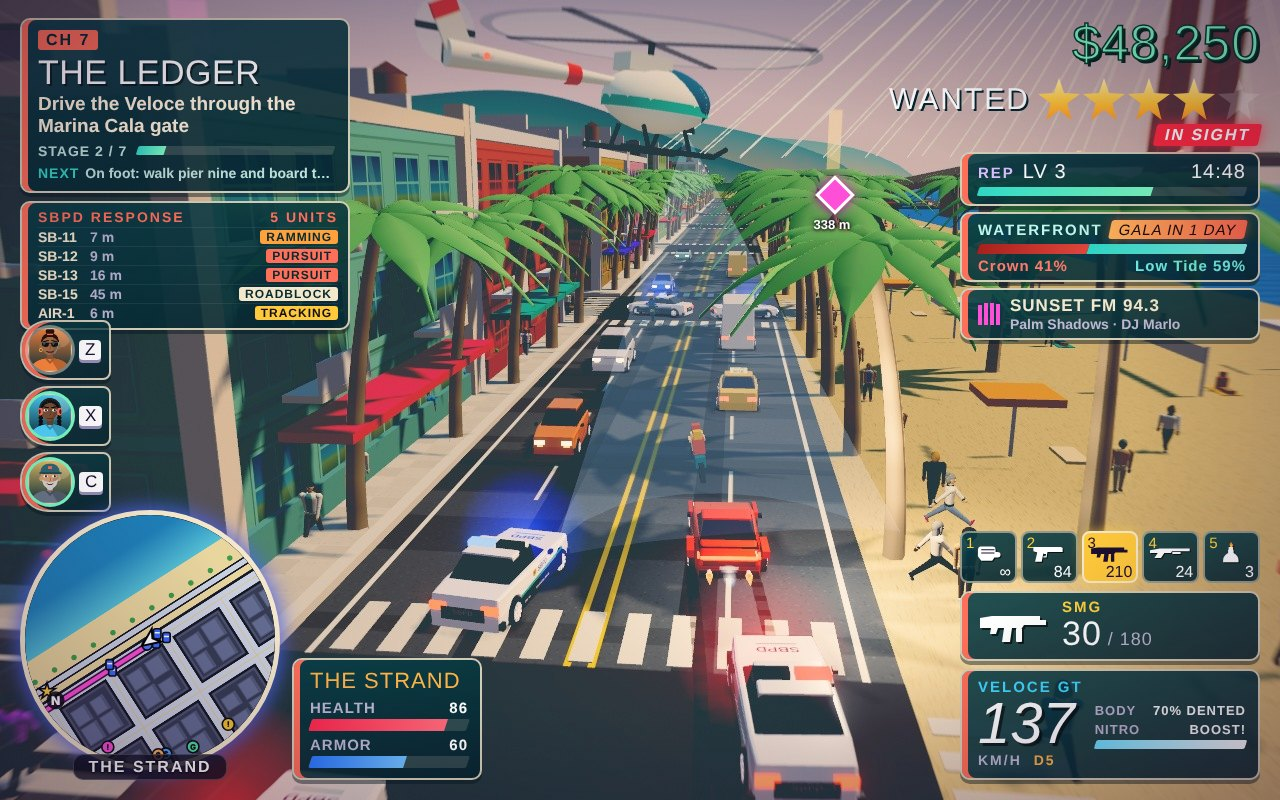
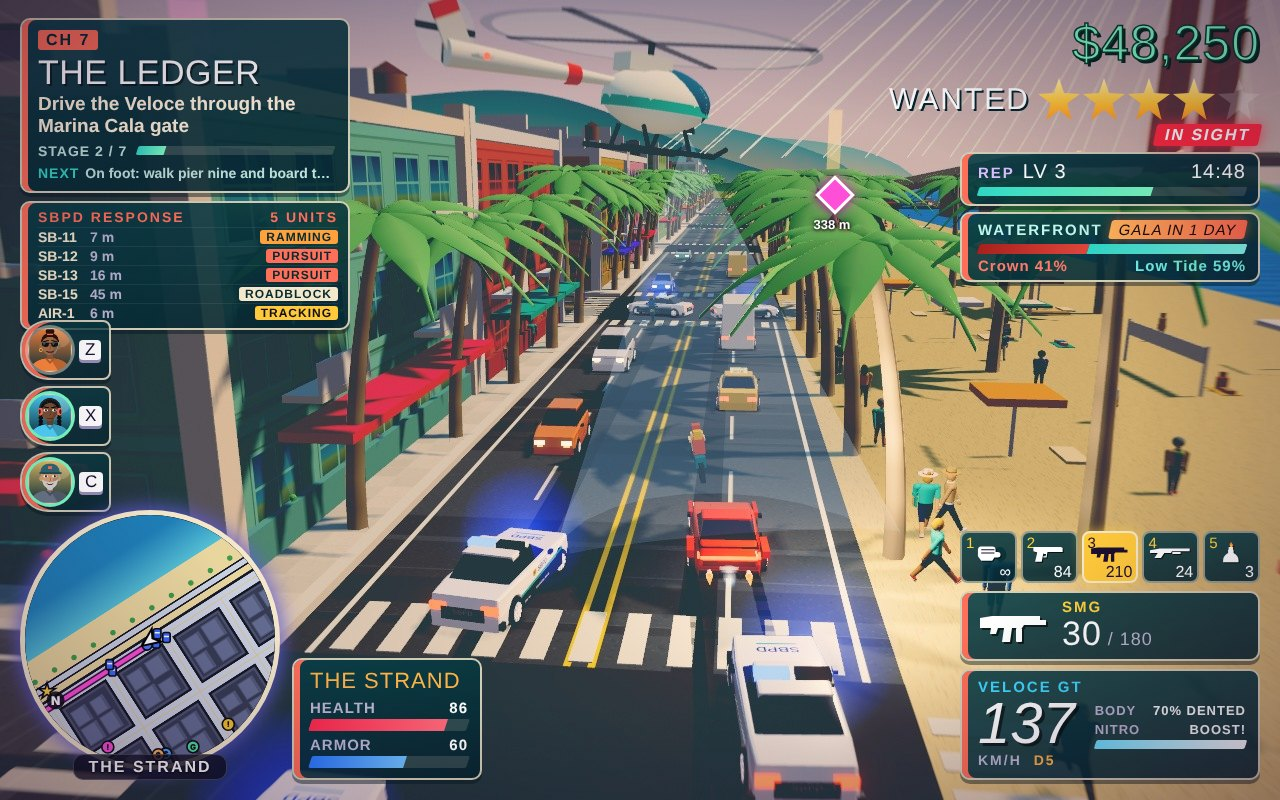
Pedestrian variety: shorts, dresses, sun hats, caps, sunglasses, backpacks and totes, a range of heights; staged shots keep the radio card hidden; screenshots re-rendered
Claude-Session: https://claude.ai/code/session_01KYFnKsdg5D9jxoFvsNJNKP

diff --git a/game/src/characters/characterModel.js b/game/src/characters/characterModel.js
@@ -15,10 +15,14 @@ export const STYLES = {
 const SHIRTS = [0xf2c230, 0xe8613c, 0x4aa3df, 0x7bc67b, 0xf4f0e6, 0xb06ad8, 0xff8fa8, 0x40c8c0], PANTS = [0x3b4a6b, 0x6b5a45, 0xd9d0b8, 0x2a2a30, 0x8a9bb0];
 const SKINS = [0xf0c8a0, 0xd9a577, 0xb07a52, 0x7a5236, 0xe8b890, 0x5c3a24], HAIRS = [0x111111, 0x3a2414, 0xc9a050, 0x7a2a1a, 0x9a9a9a];
 const JACKETS = [null, null, null, 0xf4f0e6, 0x2f6fb0, 0xd8b48a, 0x2a2a30], SHOES = [0xf2f2f2, 0x111111, 0xd94a3a, 0x6b4a2a];
+const HATS = [0xf2e2b0, 0xd8c08a, 0xf4f0e6, 0x2f6fb0], CAPS = [0xe8613c, 0x2fb8a8, 0x222831, 0xf2c230], BAGS = [0x6b4a2a, 0x2a2a30, 0xe8613c, 0x2fb8a8, 0xf4f0e6];
+// A beach-city passer-by: outfit colours plus the odd sun hat or cap, sunglasses, shorts or a dress, a backpack or tote, and a height.
 export const randomStyle = (rng) => {
-  const jacket = rng.pick(JACKETS);
+  const jacket = rng.pick(JACKETS), dress = !jacket && rng() < 0.16, head = rng();
   return { shirt: rng.pick(SHIRTS), pants: rng.pick(PANTS), skin: rng.pick(SKINS), hair: rng.pick(HAIRS), hairStyle: rng.pick(['short', 'long', 'bun', 'buzz', 'afro', 'short']),
-    jacket, trim: jacket ? rng.pick([0x222222, 0xf4f0e6]) : null, sleeves: jacket ? 'long' : rng.pick(['short', 'short', 'long']), shoes: rng.pick(SHOES) };
+    jacket, trim: jacket ? rng.pick([0x222222, 0xf4f0e6]) : null, sleeves: jacket ? 'long' : rng.pick(['short', 'short', 'long']), shoes: rng.pick(SHOES),
+    shorts: !jacket && !dress && rng() < 0.4, dress: dress ? rng.pick(SHIRTS) : null, sunhat: head < 0.12 ? rng.pick(HATS) : null, ballcap: head >= 0.12 && head < 0.24 ? rng.pick(CAPS) : null,
+    shades: rng() < 0.3, bag: rng() < 0.22 ? rng.pick(BAGS) : null, tote: rng() < 0.5, size: 0.92 + rng() * 0.16 };
 };
 
 // Merge primitives into one vertex-coloured, non-indexed geometry.
@@ -79,6 +83,11 @@ function parts(st) {
   }
   B.push([bx(0.05, 0.01, 0.01, 0, 1.625, 0.112), 0x6a2e24]); // mouth
   if (st.beard) B.push([sph(0.088, 0, 1.612, 0.036, 0.95, 0.62, 0.95), 0x3a2a20]);
+  if (st.shades) B.push([bx(0.07, 0.035, 0.015, -0.045, 1.712, 0.122), 0x111418], [bx(0.07, 0.035, 0.015, 0.045, 1.712, 0.122), 0x111418], [bx(0.24, 0.012, 0.012, 0, 1.725, 0.118), 0x111418]);
+  if (st.dress) B.push([cyl(0.2, 0.31, 0.42, 0, 0.74, 0, 0.75), st.dress]); // a skirt flaring from the waist
+  if (st.bag) B.push(st.tote ? [bx(0.06, 0.3, 0.26, 0.27, 1.0, 0.02), st.bag] : [bx(0.28, 0.34, 0.14, 0, 1.22, -0.2), st.bag]); // tote on the hip or a backpack
+  if (st.sunhat) B.push([cyl(0.27, 0.27, 0.02, 0, 1.8, -0.01, 1, 20), st.sunhat], [cyl(0.13, 0.145, 0.12, 0, 1.86, -0.01, 1, 16), st.sunhat], [cyl(0.148, 0.148, 0.03, 0, 1.82, -0.01, 1, 16), 0xe8613c]);
+  if (st.ballcap) B.push([sph(0.145, 0, 1.75, -0.005, 1, 0.55, 1.02), st.ballcap], [cyl(0.11, 0.11, 0.015, 0, 1.765, 0.12, 0.7, 14), st.ballcap]);
   if (st.cap) B.push([cyl(0.142, 0.14, 0.09, 0, 1.79, -0.005, 1, 16), st.cap], [sph(0.142, 0, 1.83, -0.005, 1, 0.35, 1), st.cap], [cyl(0.13, 0.13, 0.012, 0, 1.765, 0.1, 0.6, 16), 0x0a0a0a],
     [sph(0.024, 0, 1.8, 0.138, 1, 1.2, 0.4), 0xe8c040], [cyl(0.145, 0.145, 0.018, 0, 1.755, -0.005, 1, 16), 0xe8c040], [sph(0.12, 0, 1.69, -0.06, 1.1, 0.8, 0.9), st.hair]);
   else hair(B, st);
@@ -89,7 +98,8 @@ function parts(st) {
   if (st.sleeves !== 'short') A.push([cyl(0.058, 0.058, 0.05, 0, -0.6, 0), tr]);
   A.push([sph(0.052, 0, -0.68, 0.01, 0.85, 1.35, 1.05), st.skin], [sph(0.022, 0.03, -0.66, 0.045, 1, 1.6, 1), st.skin]);
   // Leg (pivot at hip): thigh, shin, rounded shoe with a sole.
-  limb(L, st.pants, 0.105, 0.08, 0.38, -0.05); limb(L, st.pants, 0.078, 0.06, 0.34, -0.43);
+  const shin = st.shorts || st.dress ? st.skin : st.pants; // shorts and dresses show bare legs below the knee
+  limb(L, st.dress ? st.skin : st.pants, 0.105, 0.08, 0.38, -0.05); limb(L, shin, 0.078, 0.06, 0.34, -0.43);
   L.push([sph(0.07, 0, -0.8, 0.05, 1.0, 0.65, 1.75), shoes], [cyl(0.072, 0.072, 0.03, 0, -0.835, 0.05, 1.75), st.sole ?? (shoes === 0xf2f2f2 || shoes === 0xf6f6f6 ? 0xd8d8d8 : 0xe8e4dc)]);
   return (cache[k] = { body: merge(B), arm: merge(A), leg: merge(L) });
 }
@@ -102,6 +112,7 @@ export function buildCharacter(style) {
   const g = parts(style), root = new THREE.Group(), mk = (geo, x, y) => { const m = new THREE.Mesh(geo, mat); m.position.set(x, y, 0); m.castShadow = true; root.add(m); return m; };
   const body = mk(g.body, 0, 0), armL = mk(g.arm, -0.3, 1.45), armR = mk(g.arm, 0.3, 1.45), legL = mk(g.leg, -0.11, 0.85), legR = mk(g.leg, 0.11, 0.85);
   const gun = buildGun(); gun.position.set(0, 1.38, 0.62); gun.visible = false; root.add(gun);
+  if (style.size) root.scale.setScalar(style.size); // people come in different heights
   root.userData = { body, armL, armR, legL, legR, gun }; return root;
 }
 export function animateWalk(ch, phase, amt, aim) {

diff --git a/game/src/shots/streetFightScene.js b/game/src/shots/streetFightScene.js
@@ -47,7 +47,7 @@ export function streetFight(api) {
   // people running from the gunfire down both sidewalks and across the street, more frozen further back
   const run = (x, z, yaw, i) => personAt('ped', x, z, yaw, { run: true, phase: i * 1.9 });
   [[JX - 16, JZ + 9.3], [JX - 10, JZ + 8.6], [JX - 5, JZ + 9.6], [JX - 19, JZ + 8.8]].forEach(([x, z], i) => run(x, z, EAST + 0.15, i));
-  [[JX - 15, JZ - 9.1], [JX - 9, JZ - 8.7], [JX - 22, JZ - 9.4]].forEach(([x, z], i) => run(x, z, EAST - 0.2, i + 4));
+  [[JX - 19, JZ - 9.1], [JX - 4.5, JZ - 8.7], [JX - 24, JZ - 9.4]].forEach(([x, z], i) => run(x, z, EAST - 0.2, i + 4));
   [[JX - 3, JZ - 6], [JX - 1, JZ + 11.5], [JX - 4, JZ + 9.6], [JX - 2.2, JZ + 8.4]].forEach(([x, z], i) => run(x, z, i === 0 ? NORTH + 0.4 : i === 1 ? SOUTH : EAST + 0.5, i + 8));
   strollers(JX - 34, JZ + 9.2, JX - 70, JZ + 9.2, 6); strollers(JX - 34, JZ - 9.2, JX - 70, JZ - 9.2, 5); strollers(JX + 9.2, JZ - 14, JX + 9.2, JZ - 50, 5);
   setStars(3); G.wanted.heat = 3.4; updateSirens(0.1); updateLineOfSight(1);

diff --git a/game/src/shots/sceneStaging.js b/game/src/shots/sceneStaging.js
@@ -65,7 +65,7 @@ export function frame(pos, look, fov, roll = 0) { G.shotCam = { pos, look, fov, 
 export function lamp(color, intensity, dist, x, y, z) { const l = new THREE.PointLight(color, intensity, dist, 1.4); l.position.set(x, y, z); G.scene.add(l); return l; }
 // Render the final frames with the HUD (the last one is what the screenshot captures).
 export function renderShot(api, frames = 2) {
-  const gl = G.renderer.getContext();
+  const gl = G.renderer.getContext(); G.radioShowT = 0; // the radio card only flashes up on a station change or a new car
   for (let i = 0; i < frames; i++) { G.hudRate = 1; api.updateHud(0.016); api.renderFrame(true); gl.finish(); gl.readPixels(0, 0, 1, 1, gl.RGBA, gl.UNSIGNED_BYTE, new Uint8Array(4)); }
   if (location.search.includes('nohud')) document.getElementById('hud').style.display = 'none';
 }
